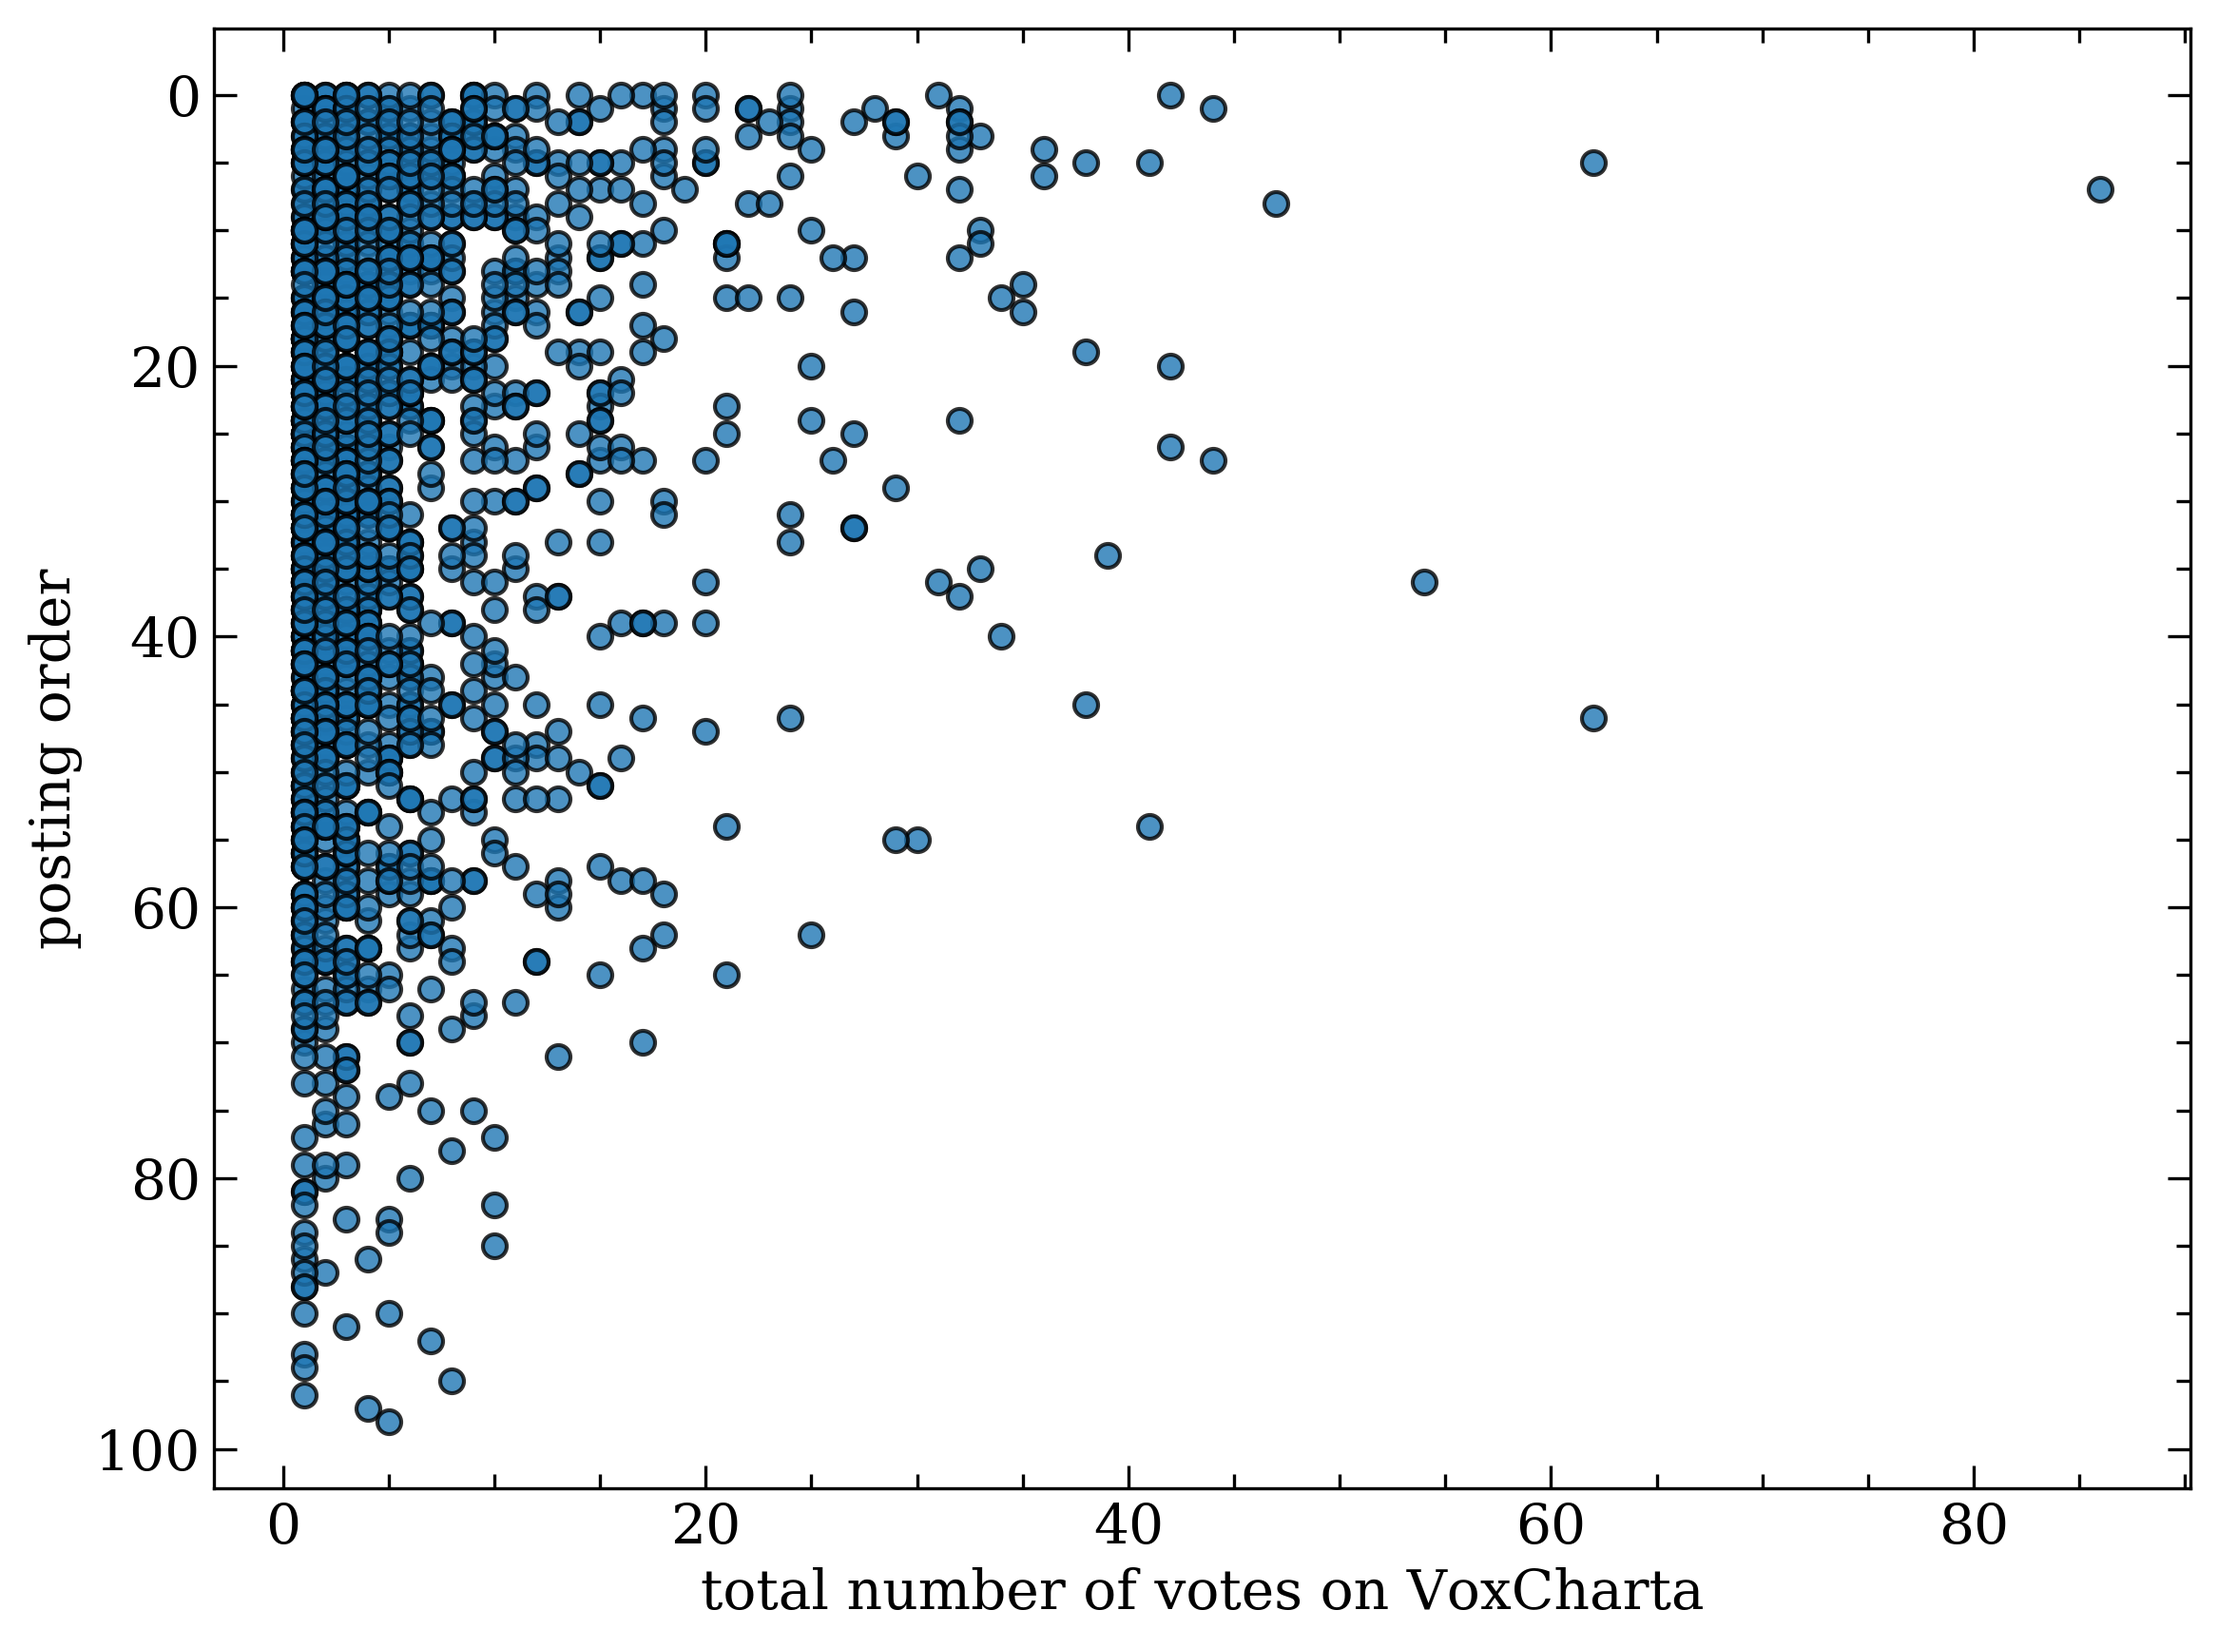
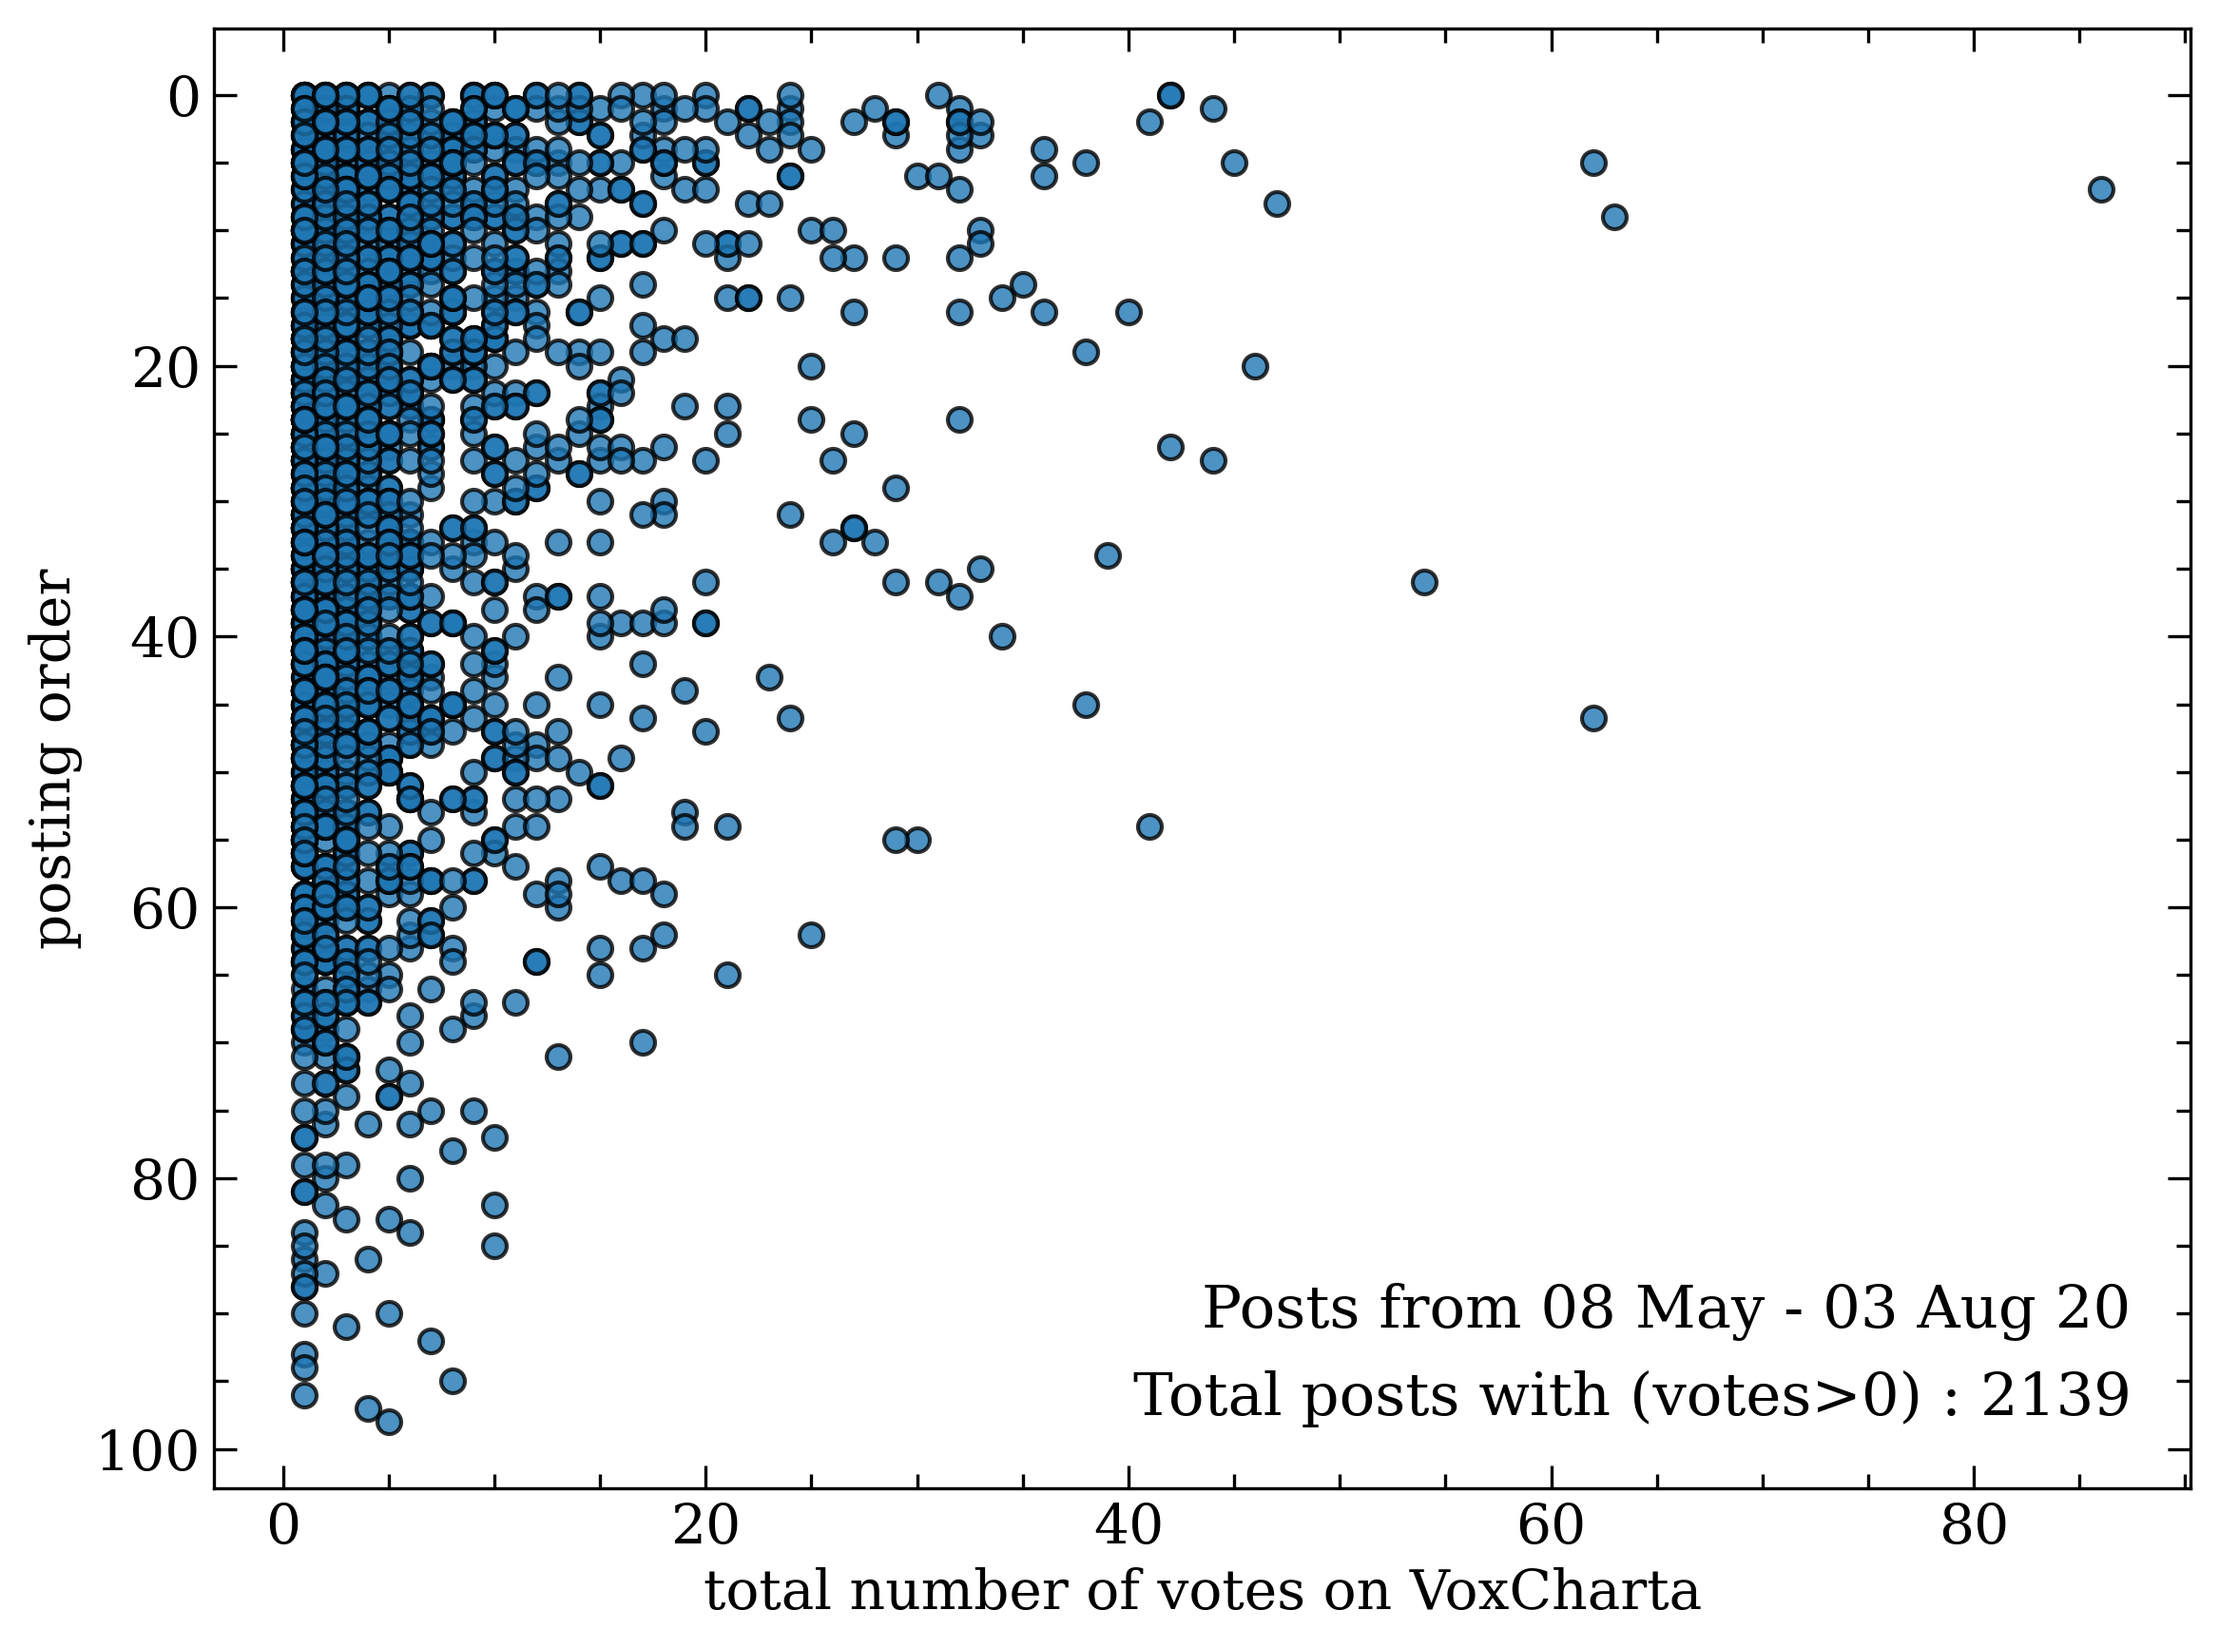
looking at data

diff --git a/plotting_total_votes_per_order.py b/plotting_total_votes_per_order.py
@@ -40,6 +40,10 @@ indexing = old_votes.query('total_votes > 0').index.values
 plt.figure()
 plt.scatter(old_votes.loc[indexing,'total_votes'],old_posts.loc[indexing,'order'],\
 		edgecolor='k',alpha=0.8)
+plt.text(0.97,0.11,f'Posts from {dt.strftime(times[0],"%d %b")} - {dt.strftime(ref_date,"%d %b %y")}',\
+		transform=plt.gca().transAxes,fontsize=15,ha='right')
+plt.text(0.97,0.05,f'Total posts with (votes>0) : {len(old_votes.loc[indexing])}',\
+		transform=plt.gca().transAxes,fontsize=15,ha='right')
 
 ylims = plt.ylim()
 plt.ylim(ylims[1],ylims[0])

diff --git a/plotting_voting_rates.py b/plotting_voting_rates.py
@@ -40,5 +40,5 @@ plt.xlabel('vote cast')
 plt.ylabel('vote order')
 
 plt.tight_layout()
-plt.savefig(max_vote_rate[:-4]+'.pdf')
+plt.savefig(max_vote_rate[:-4]+'.png')
 plt.close()
